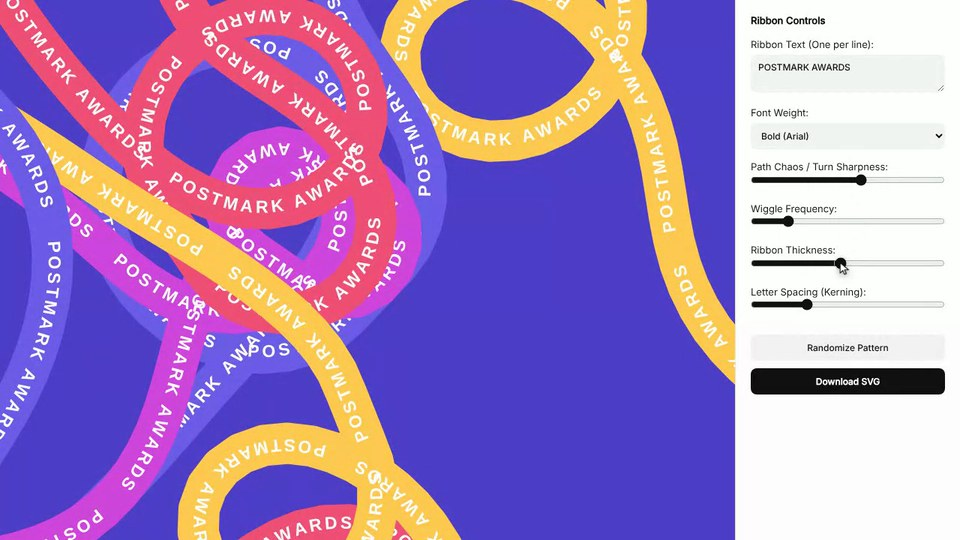
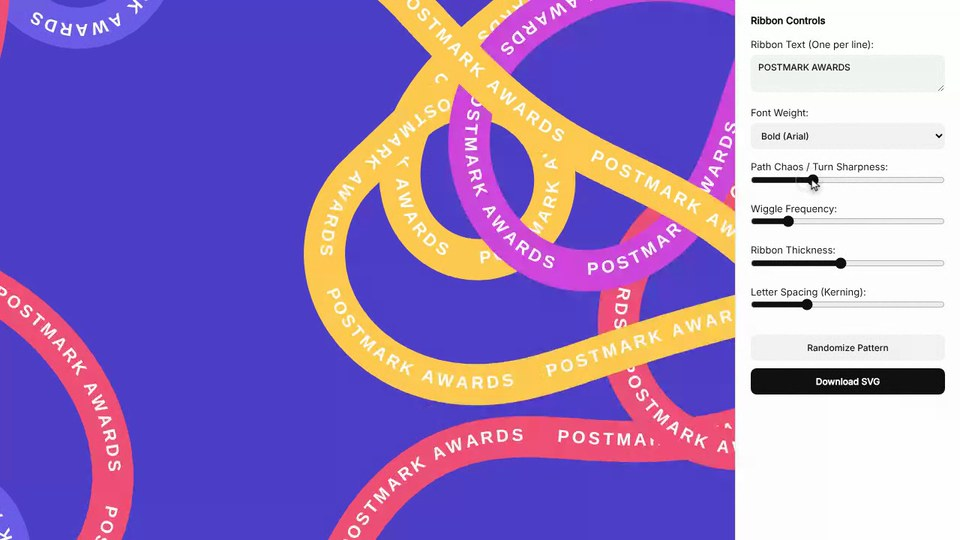
Ribbon text: re-recorded thumbnail and clip with layered ribbons (#65)
* Hero banner engine: keep-clear zone around copy in 16:9; demo sets eyebrow with new heading

Claude-Session: https://claude.ai/code/session_01AHeBdws6njZLZ7w3od6eEZ

* Hero banner engine: wider 'around' layout; demo shows 9:16

Claude-Session: https://claude.ai/code/session_01AHeBdws6njZLZ7w3od6eEZ

* Brand motion: keep controls with panel on resize; hero banner: wider keep-clear zone

Claude-Session: https://claude.ai/code/session_01AHeBdws6njZLZ7w3od6eEZ

* Brand motion: preload all Poppins weights for the canvas text

Claude-Session: https://claude.ai/code/session_01AHeBdws6njZLZ7w3od6eEZ

* Demos: never save a file, block programmatic download clicks while a demo runs

Claude-Session: https://claude.ai/code/session_01AHeBdws6njZLZ7w3od6eEZ

* Mail stack demo: record a 1:1 loop while the cursor glides slowly across the square

Claude-Session: https://claude.ai/code/session_01AHeBdws6njZLZ7w3od6eEZ

* Thread guidelines: photography tile frames sit lower, cropped by the tile, title readable

Claude-Session: https://claude.ai/code/session_01AHeBdws6njZLZ7w3od6eEZ

* Tool pages: remove the About this project section

Claude-Session: https://claude.ai/code/session_01AHeBdws6njZLZ7w3od6eEZ

* Banner studio demo: hold on the final banner before looping

Claude-Session: https://claude.ai/code/session_01AHeBdws6njZLZ7w3od6eEZ

* Tool pages: restore About this project section, drop only its eyebrow label

Claude-Session: https://claude.ai/code/session_01AHeBdws6njZLZ7w3od6eEZ
[…]

diff --git a/index.html b/index.html
@@ -119,7 +119,7 @@
         </article>
         <article class="card">
           <a href="ribbon-text/" aria-label="Postmark Awards">
-            <div class="card-media"><img src="ribbon-text/thumbnail.jpg?v=17" data-still="ribbon-text/thumbnail.jpg?v=17" data-preview="clips/ribbon-text.webp?v=17" alt="" loading="lazy"></div>
+            <div class="card-media"><img src="ribbon-text/thumbnail.jpg?v=18" data-still="ribbon-text/thumbnail.jpg?v=18" data-preview="clips/ribbon-text.webp?v=18" alt="" loading="lazy"></div>
             <div class="card-meta">
               <h3 class="card-title">Postmark Awards</h3>
               <p class="card-sub">Interactive Engine</p><svg class="card-arrow" width="10" height="10" viewBox="0 0 10 10" aria-hidden="true"><path d="M2.3 7.7l5.1-5.1M2.3 2.1h5.5v5.5" fill="none" stroke="currentColor"/></svg>
